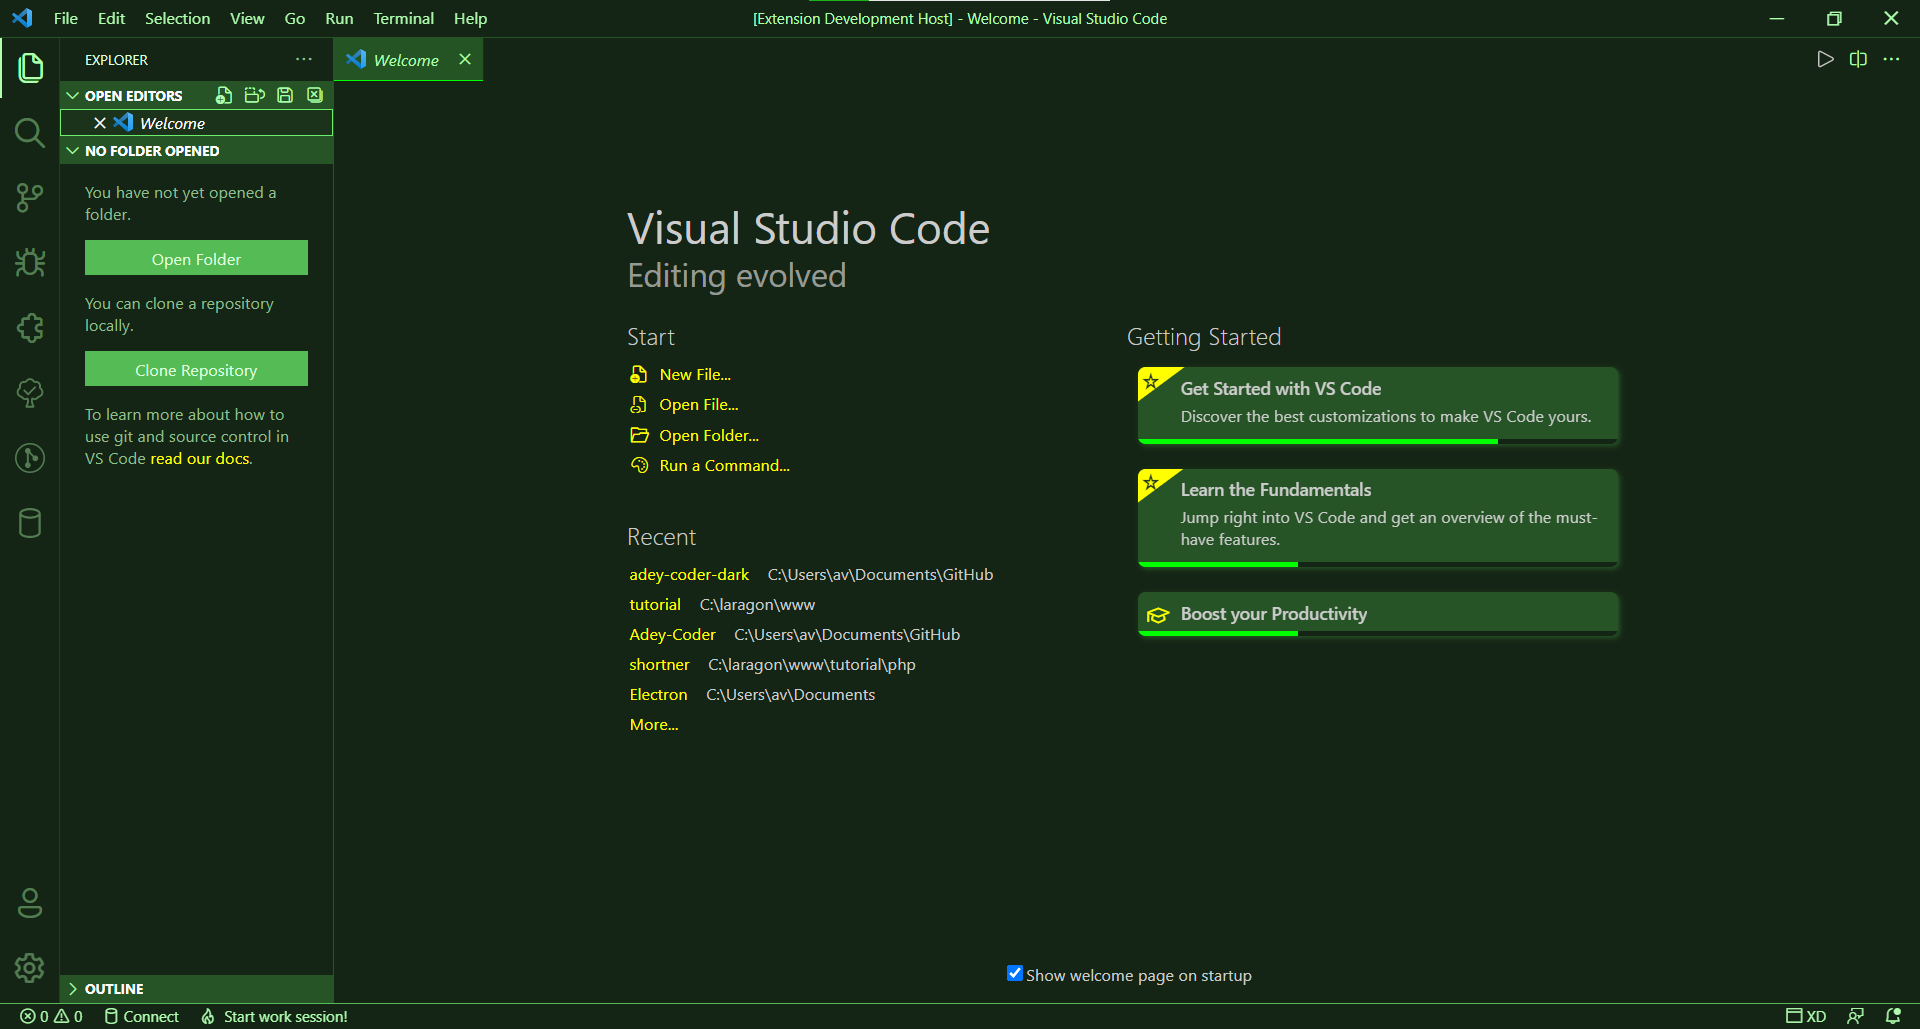
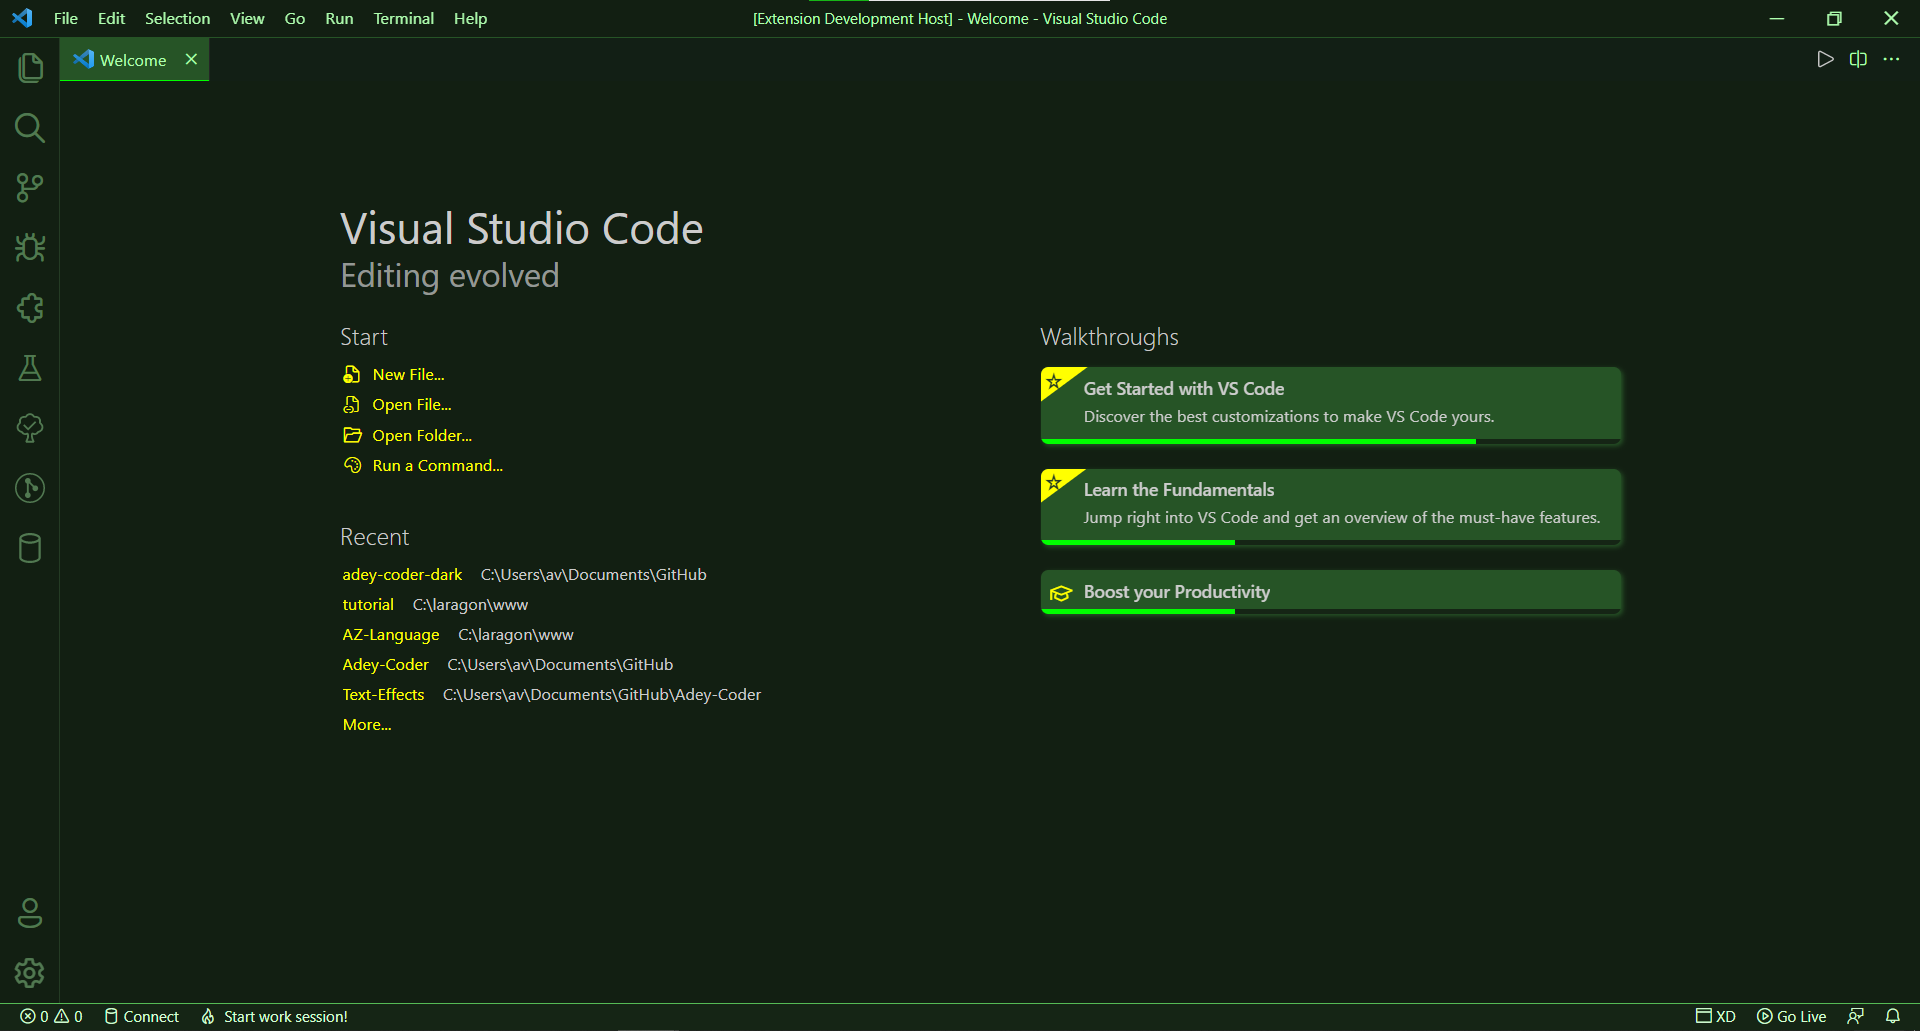
Theme assets update

diff --git a/README.md b/README.md
@@ -20,21 +20,9 @@ This is how it looks the first/initial page of the VS Code.
 
 ![ScreenShot of HTML](./images/Welcome-Page.png)
 
-### HTML
-
-![ScreenShot of HTML](./images/HTML.png)
-
-### CSS
-
-![ScreenShot of CSS](./images/CSS.png)
-
-### JavaScript
-
-![ScreenShot of JavaScript](./images/JS.png)
-
 ### PHP
 
-![ScreenShot of PHP](./images/PHP.png)
+![ScreenShot of PHP](./images/PHP-Dark-theme.png)
 
 Thank your using 🙂
 
